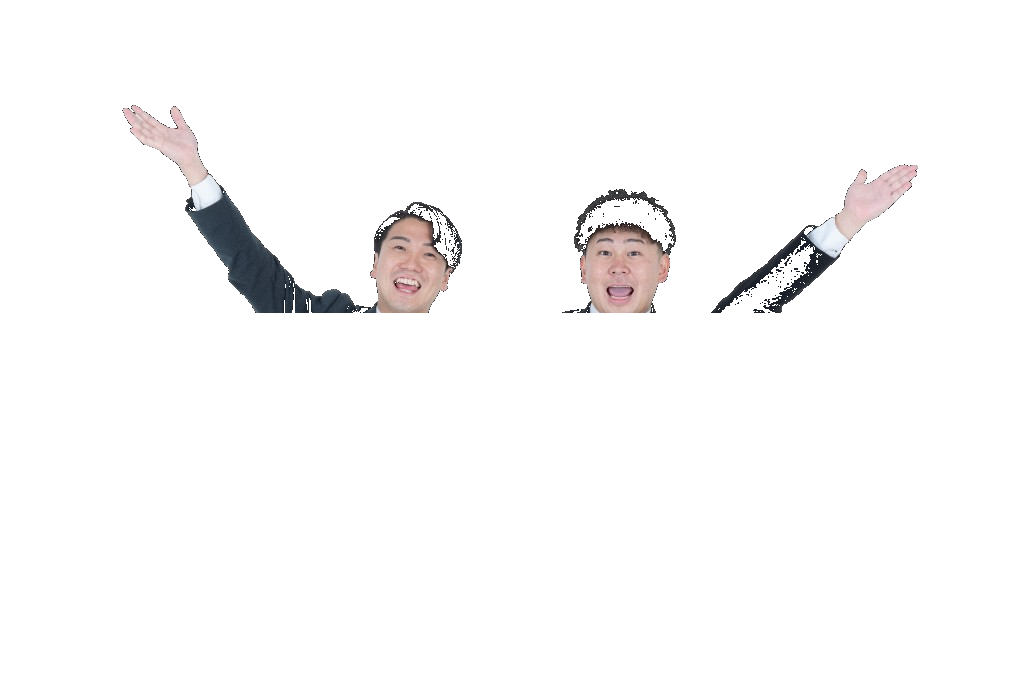
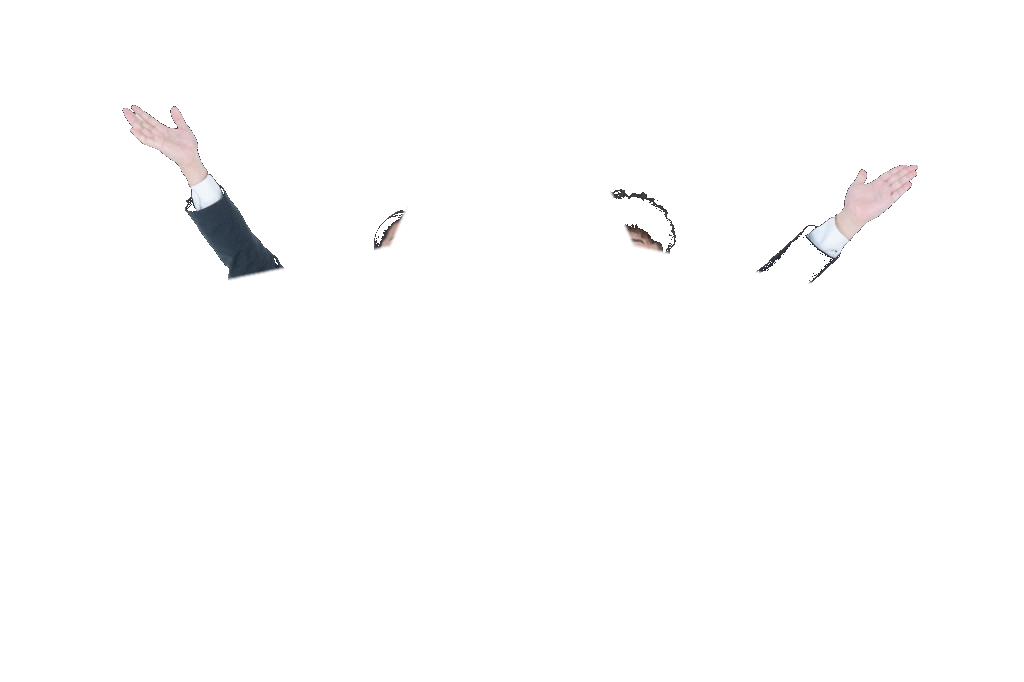
Fix founders photo with white background and pop-out hands.
Use a white-backed portrait asset inside the card and layer raised hands outside the frame with shadow so the section reads more dimensional while copy stays on top.

Changed region(s): [[0.2188, 0.2771, 0.4688, 0.4619], [0.5625, 0.2771, 0.6562, 0.4619], [0.6875, 0.3387, 0.8125, 0.4619]]

diff --git a/components/recruit/founders-photo.tsx b/components/recruit/founders-photo.tsx
@@ -1,44 +1,46 @@
 import Image from "next/image";
 import { motion } from "framer-motion";
 
-const FRAME_IMAGE = "/images/founders.jpg";
+const FRAME_IMAGE = "/images/founders-white.jpg";
 const HANDS_IMAGE = "/images/founders-hands.png";
 
-const sharedPlacement =
-  "absolute left-1/2 top-[-11%] h-[122%] w-[105%] max-w-none -translate-x-1/2 object-cover object-[center_34%]";
+const photoPlacement =
+  "absolute left-1/2 aspect-[1024/682] w-[118%] max-w-none -translate-x-1/2";
 
 export function FoundersPhoto() {
   return (
     <motion.div
-      className="relative mx-auto w-full max-w-[420px] overflow-visible pt-10"
+      className="relative mx-auto w-full max-w-[440px] overflow-visible"
       animate={{ y: [0, 8, 0] }}
       transition={{ duration: 7, repeat: Infinity, ease: "easeInOut" }}
     >
-      <div className="relative aspect-[3/4] w-full overflow-visible">
-        <div className="absolute inset-0 z-[2] overflow-hidden rounded-[1.75rem] border border-red-100 bg-black shadow-md">
-          <Image
-            src={FRAME_IMAGE}
-            alt="けーさんとたろー"
-            width={1024}
-            height={682}
-            className={sharedPlacement}
-            sizes="(max-width: 768px) 90vw, 420px"
-            priority
-          />
-        </div>
+      <div className="relative overflow-visible px-1 pt-16 pb-2">
+        <div className="relative aspect-[3/4] w-full overflow-visible">
+          <div
+            aria-hidden
+            className={`pointer-events-none top-[-24%] z-30 ${photoPlacement} h-[64%] overflow-visible`}
+          >
+            <Image
+              src={HANDS_IMAGE}
+              alt=""
+              fill
+              className="scale-[1.06] object-cover object-top [filter:drop-shadow(0_18px_22px_rgba(15,23,42,0.3))_drop-shadow(0_6px_10px_rgba(15,23,42,0.18))]"
+              sizes="(max-width: 768px) 95vw, 440px"
+            />
+          </div>
 
-        <div
-          aria-hidden
-          className="pointer-events-none absolute inset-0 z-[3] overflow-visible"
-        >
-          <Image
-            src={HANDS_IMAGE}
-            alt=""
-            width={1024}
-            height={682}
-            className={sharedPlacement}
-            sizes="(max-width: 768px) 90vw, 420px"
-          />
+          <div className="relative z-10 h-full w-full overflow-hidden rounded-[1.75rem] border border-red-100 bg-white shadow-[0_20px_48px_rgba(217,43,52,0.14)]">
+            <div className={`top-[-14%] ${photoPlacement} h-[148%]`}>
+              <Image
+                src={FRAME_IMAGE}
+                alt="けーさんとたろー"
+                fill
+                className="object-cover object-[center_36%]"
+                sizes="(max-width: 768px) 92vw, 440px"
+                priority
+              />
+            </div>
+          </div>
         </div>
       </div>
     </motion.div>

diff --git a/components/recruit/content-sections.tsx b/components/recruit/content-sections.tsx
@@ -255,7 +255,7 @@ export function FoundersSection() {
       <div className="relative mx-auto max-w-6xl overflow-visible rounded-[2rem] border border-red-100 bg-gradient-to-br from-red-50 via-white to-white p-6 shadow-sm md:p-10">
         <div className="grid gap-10 md:grid-cols-[0.9fr_1.1fr]">
           <InViewBlock variants={fadeInUp}>
-            <div className="relative z-0 overflow-visible">
+            <div className="relative z-0 overflow-visible md:-ml-2">
               <FoundersPhoto />
             </div>
           </InViewBlock>

diff --git a/lib/recruit-data.ts b/lib/recruit-data.ts
@@ -25,7 +25,7 @@ export const recruitSite = {
       "総フォロワー数は260万人を超え、",
       "SNSでも注目を集める大人気動画クリエイターです。",
     ],
-    image: "/images/founders.jpg",
+    image: "/images/founders-white.jpg",
     youtubeUrl: "https://www.youtube.com/@kesantotaro",
   },
   about: {